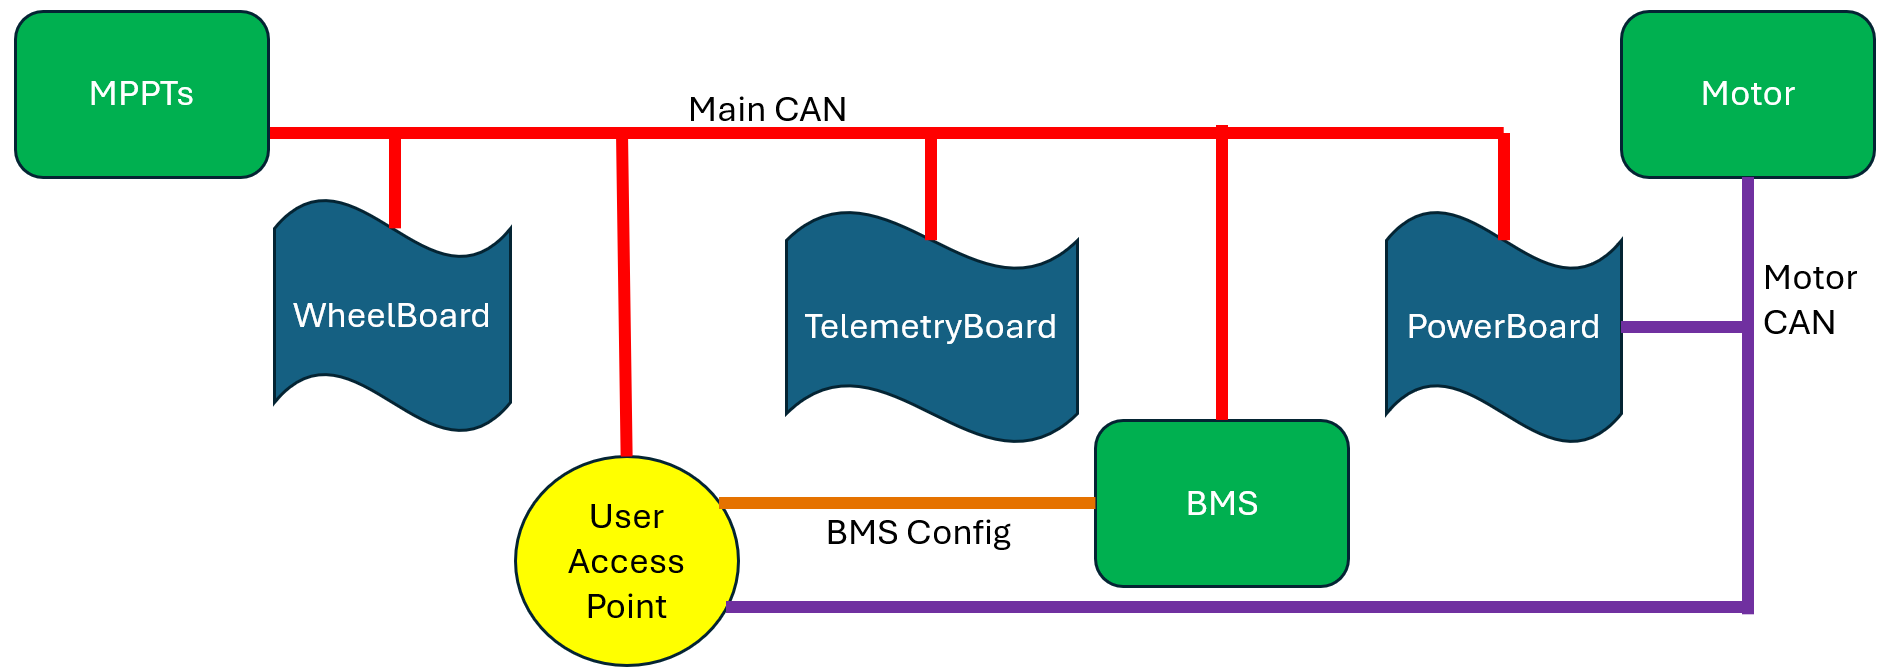
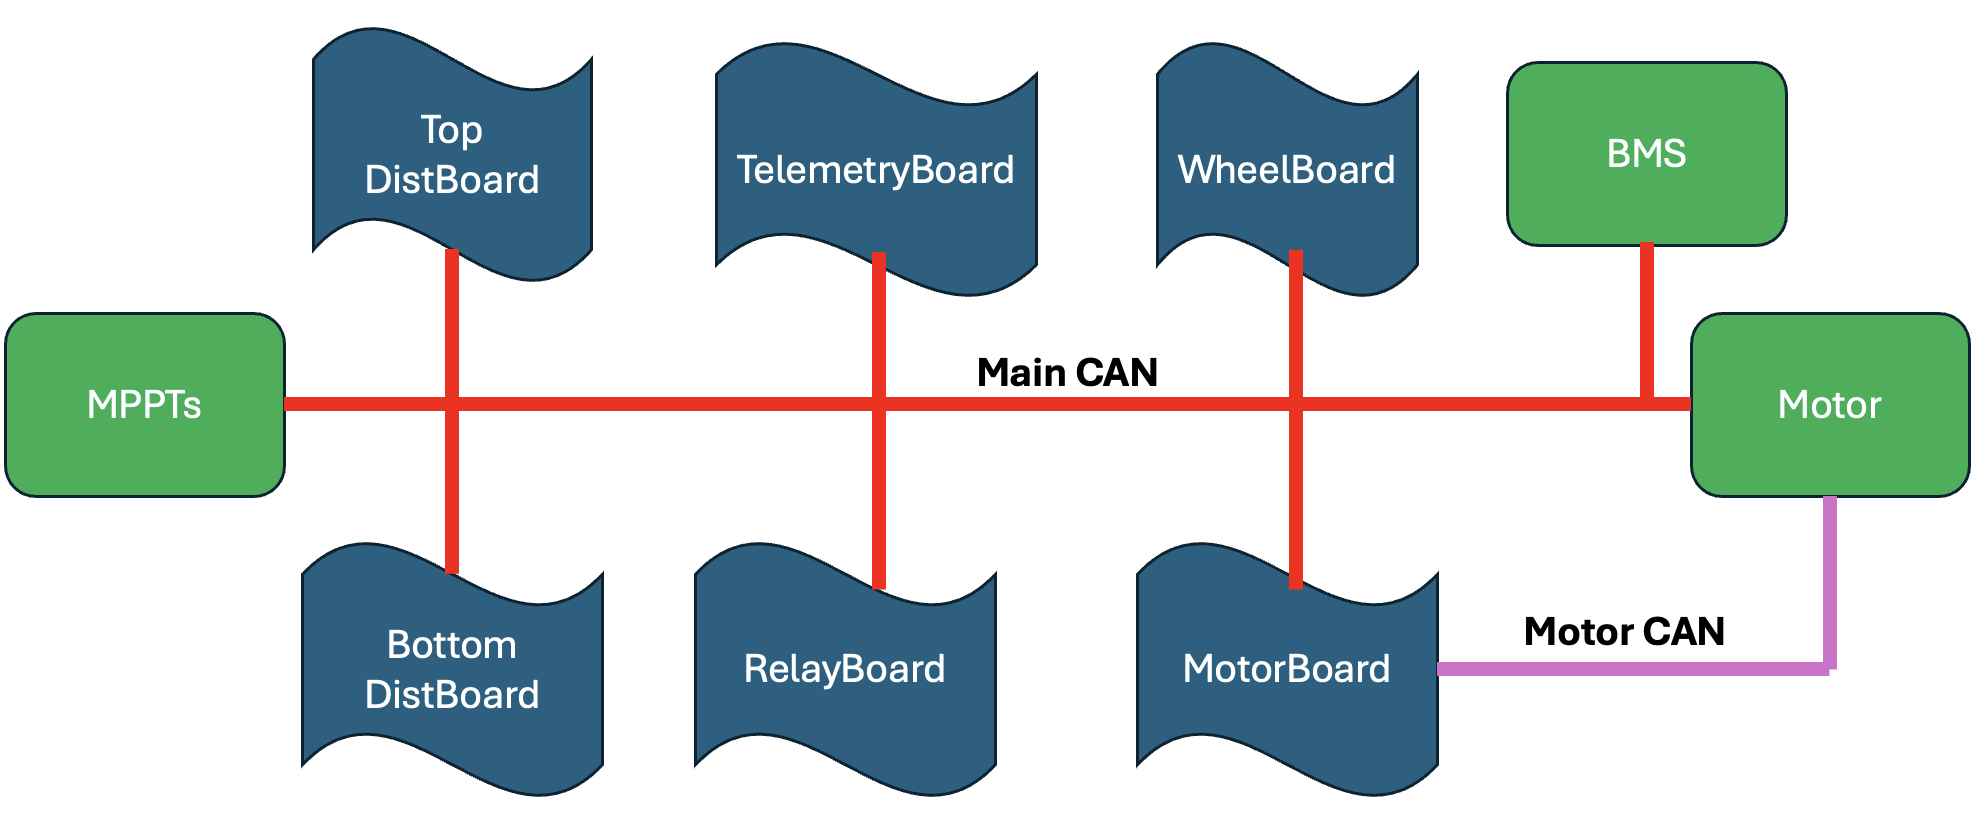
CAN diagram update

diff --git a/Embedded/riv3_dev_guide.md b/Embedded/riv3_dev_guide.md
@@ -61,13 +61,10 @@ This is further discussed in an [onboarding presentation](https://drive.google.c
 
 The current CAN networks are as follows:
 
-TODO update
-
 ![CAN Diagram](/assets/images/Embedded/CAN_diagram.png)
 
 - Main CAN - almost everything is attached to this network, when people say 'the CAN network' they mean main CAN
 - Motor CAN - connects the motor controller and the PowerBoard
-- BMS Config - used solely by the *Power subteam* to configure the battery management system
 
 ## Precharge
 

diff --git a/Embedded/photonic_os.md b/Embedded/photonic_os.md
@@ -24,7 +24,7 @@ The team previously used [MbedOS](https://os.mbed.com/mbed-os/), but chose to le
 
 ## Adding new features
 
-**Not hardware related**: (example: adding a class to process data)
+**Not hardware related**: (example: adding a class to process data) <br>
 If this library will only be used by a specific board, put the code in that board's folder, otherwise put it in `Common/`.
 
 **Hardware related**: (example: adding support for OctoSPI peripherals)
